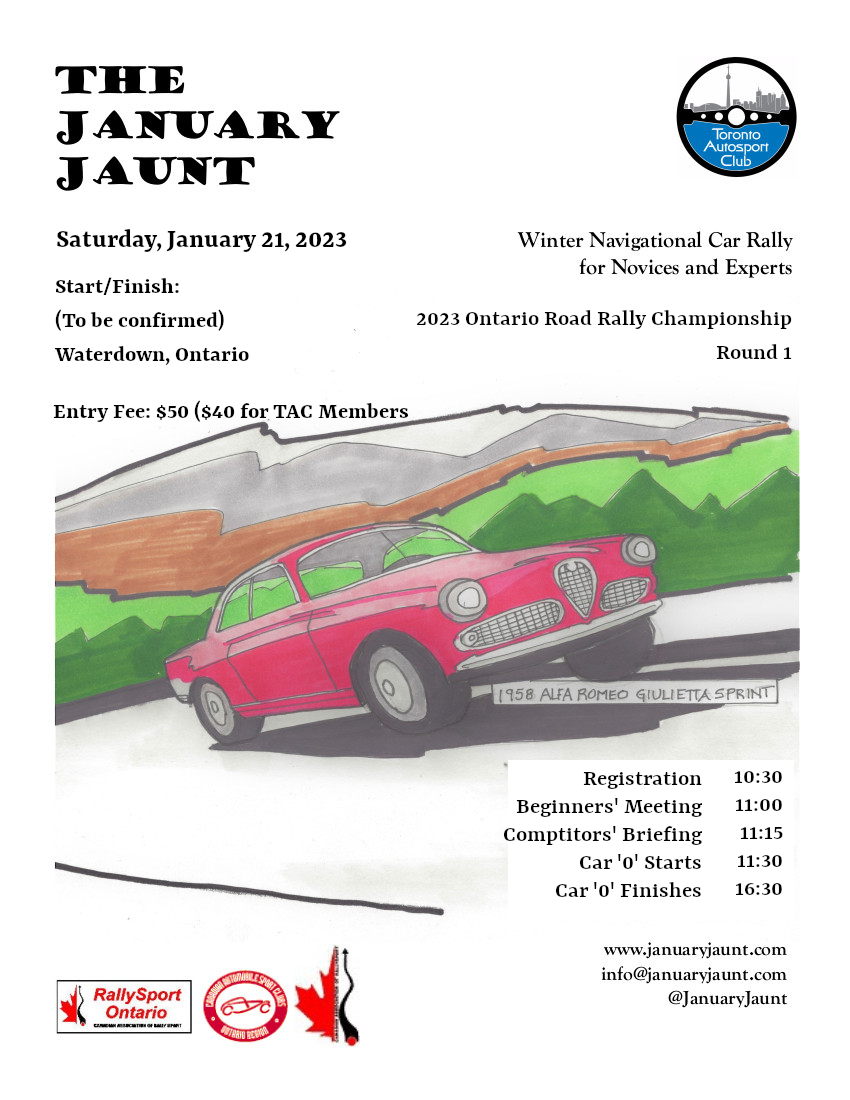
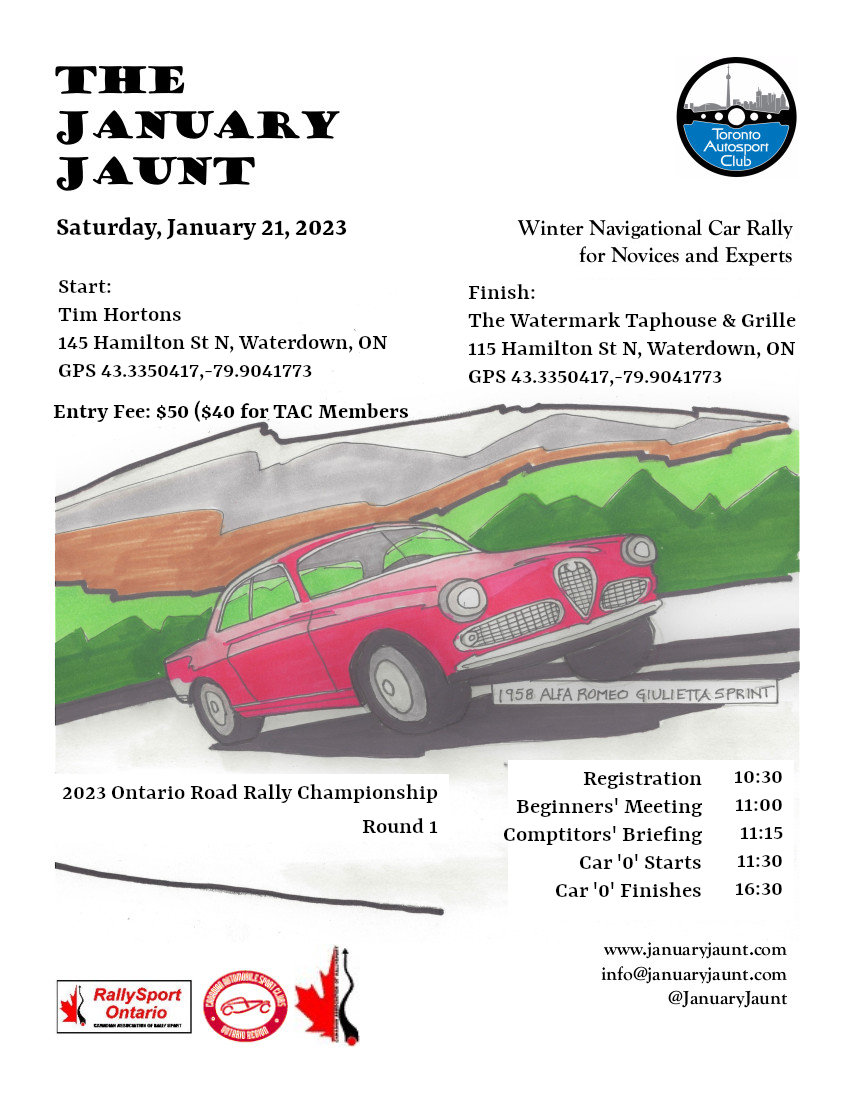
Start/finish + registration updates

Changed region(s): [[0.4894, 0.1855, 0.9482, 0.3709], [0.0612, 0.1855, 0.4588, 0.34], [0.0612, 0.7109, 0.52, 0.7727]]

diff --git a/index.html b/index.html
@@ -308,23 +308,38 @@ Main Page
         <h1 class=center>2023 January Jaunt</h1>
         <h2 class=center>Round 1 of the Ontario Road Rally Championship</h2>
         <h3 class=center>Saturday, January 21, 2023</h3>
+        <p><b><a href="https://forms.gle/8RLMK7x1VNjqSc9P7" target=_jaunt_helper>Register online</a>
+        </b></p>
       </td>
       <TD width=120 align="center" valign=middle>
       </TD>
      </tr>
       </table>
       <table width=100% border=0 cellspacing=0 cellpadding=0>
+        <tr><td>&nbsp;</td></tr>
          <tr>
           <td width=50% valign=top colspan=2 align=right>
-            Start/Finish:
+            Start:
           </td>
           <td width=50% valign=top colspan=2 align=left>
-            <p class=tight >To be announced<br/>Waterdown, Ontario</p>
-            <!--
-            <p class=tight >The Royal Coachman</p>
-            <p class=tight >1 Main Street North (at Dundas)</p>
-            <p class=tight >Waterdown, Ontario</p>
-            -->
+            <p class=tight >Tim Hortons</a></a><br/>
+              145 Hamilton St N</br>
+              Waterdown, Ontario</br>
+              <a href="https://www.google.ca/maps/place/Tim+Hortons/@43.3350417,-79.9041773,17z/data=!4m12!1m6!3m5!1s0x882c9d5caefed4c1:0xb3e2d984c29e6c92!2sThe+Watermark+Taphouse+%26+Grille!8m2!3d43.3350378!4d-79.9019886!3m4!1s0x882c9d5ccbd57ec7:0x93d51362b4108dac!8m2!3d43.3368254!4d-79.9042511" target=_jaunt_helper>GPS 43.3350417,-79.9041773</a>
+            </p>
+          </td>
+        </tr>
+        <tr><td>&nbsp;</td></tr>
+        <tr>
+          <td width=50% valign=top colspan=2 align=right>
+            Finish:
+          </td>
+          <td width=50% valign=top colspan=2 align=left>
+            <p class=tight ><a href="https://thewatermarktaphouse.com/" target=_jaunt_helper>The Watermark Taphouse & Grille</a></a><br/>
+              115 Hamilton St N</br>
+              Waterdown, Ontario</br>
+              <a href="https://www.google.ca/maps/place/The+Watermark+Taphouse+%26+Grille/@43.3350417,-79.9041773,17z/data=!3m1!4b1!4m5!3m4!1s0x882c9d5caefed4c1:0xb3e2d984c29e6c92!8m2!3d43.3350378!4d-79.9019886" target=_jaunt_helper>GPS 43.3350417,-79.9041773</a>
+            </p>
           </td>
         </tr>
         <tr><td>&nbsp;</td></tr>
@@ -339,10 +354,10 @@ Main Page
           <tr><td>&nbsp;</td></tr>
           <tr>
           <td width=50% valign=top colspan=2 align=right>
-            Registration Opens:
+            On-site Registration Opens:
           </td>
           <td width=50% valign=top colspan=2 align=left>
-            10:30 (online pre-registration required)
+            10:30 (<a href="https://forms.gle/8RLMK7x1VNjqSc9P7" target=_jaunt_helper>online pre-registration required</a>)
           </td>
         </tr>
         <tr>
@@ -355,7 +370,7 @@ Main Page
         </tr>
         <tr>
           <td width=50% valign=top colspan=2 align=right>
-            <p class=tight>Competitor Briefing:</p>
+            Competitor Briefing:
           </td>
           <td width=50% valign=top colspan=2 align=left>
             11:15
@@ -427,7 +442,7 @@ Main Page
           &nbsp;&copy; 2003-2022<br>Kurt Seelenmayer</span>
       </TD>
       <TD align="right" valign="baseline" height="10" bgcolor=#eeeeee>
-        <span style="color: gray;font-size: 10">Last updated: 2022-12-19&nbsp;&nbsp;</span>
+        <span style="color: gray;font-size: 10">Last updated: 2022-12-31&nbsp;&nbsp;</span>
       </TD>
     </TR>
     <TR>

diff --git a/location.html b/location.html
@@ -293,14 +293,33 @@ Start Location
         include "right_test.html"
         -->
 <h1>Location</h1>
-<p>The 2022 January Jaunt is over for this year. Stay tuned to find out about the location for the 2023 event.</p>
-
-<p>We have enjoyed the fabulous hospitality of the Royal Coachman 
-in downtown Waterdown as the start/finish location for the rally since 2004. It is a great place for a full meal after the rally. The pub 
-is at 1 Main Street North. Here's a 
-<a href="http://maps.google.ca/maps?q=1+Main+St+N,+Waterdown,+ON,+Canada+(The+Royal+Coachman)&iwloc=A&hl=en"
- target=_jaunt_helper> map</a>.</p>
-
+<table width=100% border=0 cellspacing=0 cellpadding=0>
+     <tr>
+      <td width=20% valign=top align=right>
+        Start:
+      </td>
+      <td width=50% valign=top align=left>
+        <p class=tight >Tim Hortons</a></a><br/>
+          145 Hamilton St N</br>
+          Waterdown, Ontario</br>
+          <a href="https://www.google.ca/maps/place/Tim+Hortons/@43.3350417,-79.9041773,17z/data=!4m12!1m6!3m5!1s0x882c9d5caefed4c1:0xb3e2d984c29e6c92!2sThe+Watermark+Taphouse+%26+Grille!8m2!3d43.3350378!4d-79.9019886!3m4!1s0x882c9d5ccbd57ec7:0x93d51362b4108dac!8m2!3d43.3368254!4d-79.9042511" target=_jaunt_helper>GPS 43.3350417,-79.9041773</a>
+        </p>
+      </td>
+    </tr>
+    <tr><td>&nbsp;</td></tr>
+    <tr>
+      <td width=20% valign=top align=right>
+        Finish:
+      </td>
+      <td width=50% valign=top align=left>
+        <p class=tight ><a href="https://thewatermarktaphouse.com/" target=_jaunt_helper>The Watermark Taphouse & Grille</a></a><br/>
+          115 Hamilton St N</br>
+          Waterdown, Ontario</br>
+          <a href="https://www.google.ca/maps/place/The+Watermark+Taphouse+%26+Grille/@43.3350417,-79.9041773,17z/data=!3m1!4b1!4m5!3m4!1s0x882c9d5caefed4c1:0xb3e2d984c29e6c92!8m2!3d43.3350378!4d-79.9019886" target=_jaunt_helper>GPS 43.3350417,-79.9041773</a>
+        </p>
+      </td>
+    </tr>
+    </table>
       </TD>
     </TR>
     <TR>
@@ -315,7 +334,7 @@ is at 1 Main Street North. Here's a
           &nbsp;&copy; 2003-2022<br>Kurt Seelenmayer</span>
       </TD>
       <TD align="right" valign="baseline" height="10" bgcolor=#eeeeee>
-        <span style="color: gray;font-size: 10">Last updated: 2022-12-19&nbsp;&nbsp;</span>
+        <span style="color: gray;font-size: 10">Last updated: 2022-12-31&nbsp;&nbsp;</span>
       </TD>
     </TR>
     <TR>

diff --git a/registration.html b/registration.html
@@ -294,7 +294,10 @@ Registration Information
         -->
 <h1>Registration</h1>
 
-<p>Online registration will be required for the 2023 January Jaunt. Information will be posted about 3 weeks before the event.</p>
+<p>Online pre-registration is required for the 2023 January Jaunt. All information is included in the form:</p>
+<p><b><a href="https://forms.gle/8RLMK7x1VNjqSc9P7" target=_jaunt_helper>Register online</a>
+</b></p>
+<p>Please note that you will be required to sign an insurance waiver, which will be available at the start of the event.</p>
       </TD>
     </TR>
     <TR>
@@ -309,7 +312,7 @@ Registration Information
           &nbsp;&copy; 2003-2022<br>Kurt Seelenmayer</span>
       </TD>
       <TD align="right" valign="baseline" height="10" bgcolor=#eeeeee>
-        <span style="color: gray;font-size: 10">Last updated: 2022-12-19&nbsp;&nbsp;</span>
+        <span style="color: gray;font-size: 10">Last updated: 2022-12-31&nbsp;&nbsp;</span>
       </TD>
     </TR>
     <TR>

diff --git a/supp_regs.html b/supp_regs.html
@@ -294,7 +294,7 @@ Supplementary Regulations
         -->
 <h1>January Jaunt</h1>
 <h2>Announcements and General Notes</h2>
-<p>Notifications about supplementary regulations will be posted 3 weeks before the event.</p>
+<p>The January Jaunt follows <a href="https://rallysport.on.ca/wp-content/uploads/2022/08/REGULATIONS-FOR-ROAD-RALLIES-Rev-2011-2012-2018-2022.pdf" target=_jaunt_helper>RallySport Ontario navigational rally regulations</a>. Any additional information will be available either in the instruction package or at the start of the event.</p>
       </TD>
     </TR>
     <TR>
@@ -309,7 +309,7 @@ Supplementary Regulations
           &nbsp;&copy; 2003-2022<br>Kurt Seelenmayer</span>
       </TD>
       <TD align="right" valign="baseline" height="10" bgcolor=#eeeeee>
-        <span style="color: gray;font-size: 10">Last updated: 2022-12-19&nbsp;&nbsp;</span>
+        <span style="color: gray;font-size: 10">Last updated: 2022-12-31&nbsp;&nbsp;</span>
       </TD>
     </TR>
     <TR>

diff --git a/results_2021.html b/results_2021.html
@@ -317,7 +317,7 @@ Sign up using the <a href="https://forms.gle/qX32JetfSd6qgZLA6" target=_jaunt_he
           &nbsp;&copy; 2003-2022<br>Kurt Seelenmayer</span>
       </TD>
       <TD align="right" valign="baseline" height="10" bgcolor=#eeeeee>
-        <span style="color: gray;font-size: 10">Last updated: 2022-12-19&nbsp;&nbsp;</span>
+        <span style="color: gray;font-size: 10">Last updated: 2022-12-31&nbsp;&nbsp;</span>
       </TD>
     </TR>
     <TR>

diff --git a/results_2013.html b/results_2013.html
@@ -5394,7 +5394,7 @@ run, and elected to opt out of awards and series standings.)</span></p>
           &nbsp;&copy; 2003-2022<br>Kurt Seelenmayer</span>
       </TD>
       <TD align="right" valign="baseline" height="10" bgcolor=#eeeeee>
-        <span style="color: gray;font-size: 10">Last updated: 2022-12-19&nbsp;&nbsp;</span>
+        <span style="color: gray;font-size: 10">Last updated: 2022-12-31&nbsp;&nbsp;</span>
       </TD>
     </TR>
     <TR>

diff --git a/results_2006.html b/results_2006.html
@@ -3625,7 +3625,7 @@ as the date for the next January Jaunt - we hope to see you there!</P>
           &nbsp;&copy; 2003-2022<br>Kurt Seelenmayer</span>
       </TD>
       <TD align="right" valign="baseline" height="10" bgcolor=#eeeeee>
-        <span style="color: gray;font-size: 10">Last updated: 2022-12-19&nbsp;&nbsp;</span>
+        <span style="color: gray;font-size: 10">Last updated: 2022-12-31&nbsp;&nbsp;</span>
       </TD>
     </TR>
     <TR>

diff --git a/results_2004.html b/results_2004.html
@@ -758,7 +758,7 @@ made final until Wednesday, January 7, after 5:00 PM.</p>
           &nbsp;&copy; 2003-2022<br>Kurt Seelenmayer</span>
       </TD>
       <TD align="right" valign="baseline" height="10" bgcolor=#eeeeee>
-        <span style="color: gray;font-size: 10">Last updated: 2022-12-19&nbsp;&nbsp;</span>
+        <span style="color: gray;font-size: 10">Last updated: 2022-12-31&nbsp;&nbsp;</span>
       </TD>
     </TR>
     <TR>

diff --git a/results_2017.html b/results_2017.html
@@ -1331,7 +1331,7 @@ by RSO VP Navigational Darin Mayes.</p>
           &nbsp;&copy; 2003-2022<br>Kurt Seelenmayer</span>
       </TD>
       <TD align="right" valign="baseline" height="10" bgcolor=#eeeeee>
-        <span style="color: gray;font-size: 10">Last updated: 2022-12-19&nbsp;&nbsp;</span>
+        <span style="color: gray;font-size: 10">Last updated: 2022-12-31&nbsp;&nbsp;</span>
       </TD>
     </TR>
     <TR>

diff --git a/results_2011.html b/results_2011.html
@@ -1353,7 +1353,7 @@ Co-organizer, 2011 January Jaunt
           &nbsp;&copy; 2003-2022<br>Kurt Seelenmayer</span>
       </TD>
       <TD align="right" valign="baseline" height="10" bgcolor=#eeeeee>
-        <span style="color: gray;font-size: 10">Last updated: 2022-12-19&nbsp;&nbsp;</span>
+        <span style="color: gray;font-size: 10">Last updated: 2022-12-31&nbsp;&nbsp;</span>
       </TD>
     </TR>
     <TR>

diff --git a/results_2012.html b/results_2012.html
@@ -1652,7 +1652,7 @@ Co-organizer, 2012 January Jaunt
           &nbsp;&copy; 2003-2022<br>Kurt Seelenmayer</span>
       </TD>
       <TD align="right" valign="baseline" height="10" bgcolor=#eeeeee>
-        <span style="color: gray;font-size: 10">Last updated: 2022-12-19&nbsp;&nbsp;</span>
+        <span style="color: gray;font-size: 10">Last updated: 2022-12-31&nbsp;&nbsp;</span>
       </TD>
     </TR>
     <TR>

diff --git a/results_2005.html b/results_2005.html
@@ -2708,7 +2708,7 @@ tags will be replaced.-->
           &nbsp;&copy; 2003-2022<br>Kurt Seelenmayer</span>
       </TD>
       <TD align="right" valign="baseline" height="10" bgcolor=#eeeeee>
-        <span style="color: gray;font-size: 10">Last updated: 2022-12-19&nbsp;&nbsp;</span>
+        <span style="color: gray;font-size: 10">Last updated: 2022-12-31&nbsp;&nbsp;</span>
       </TD>
     </TR>
     <TR>
